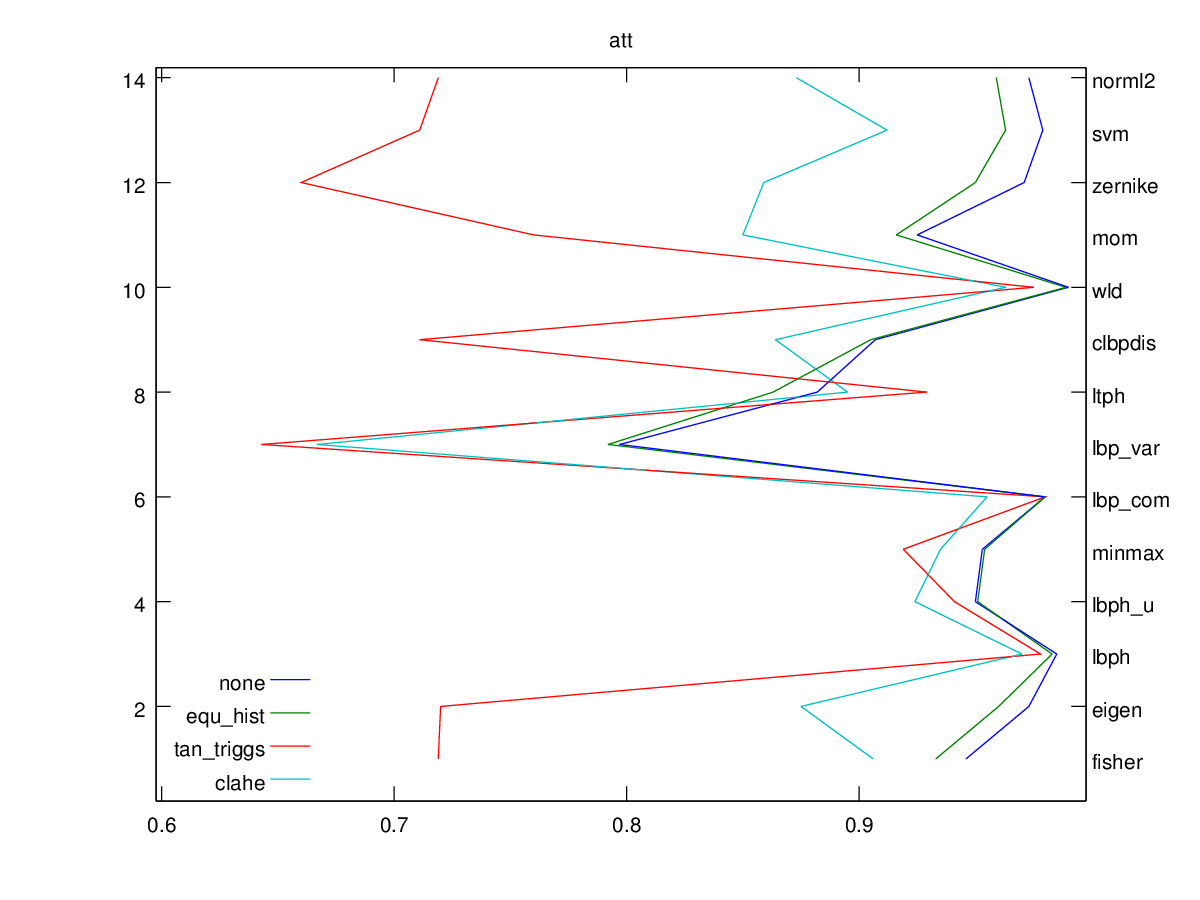
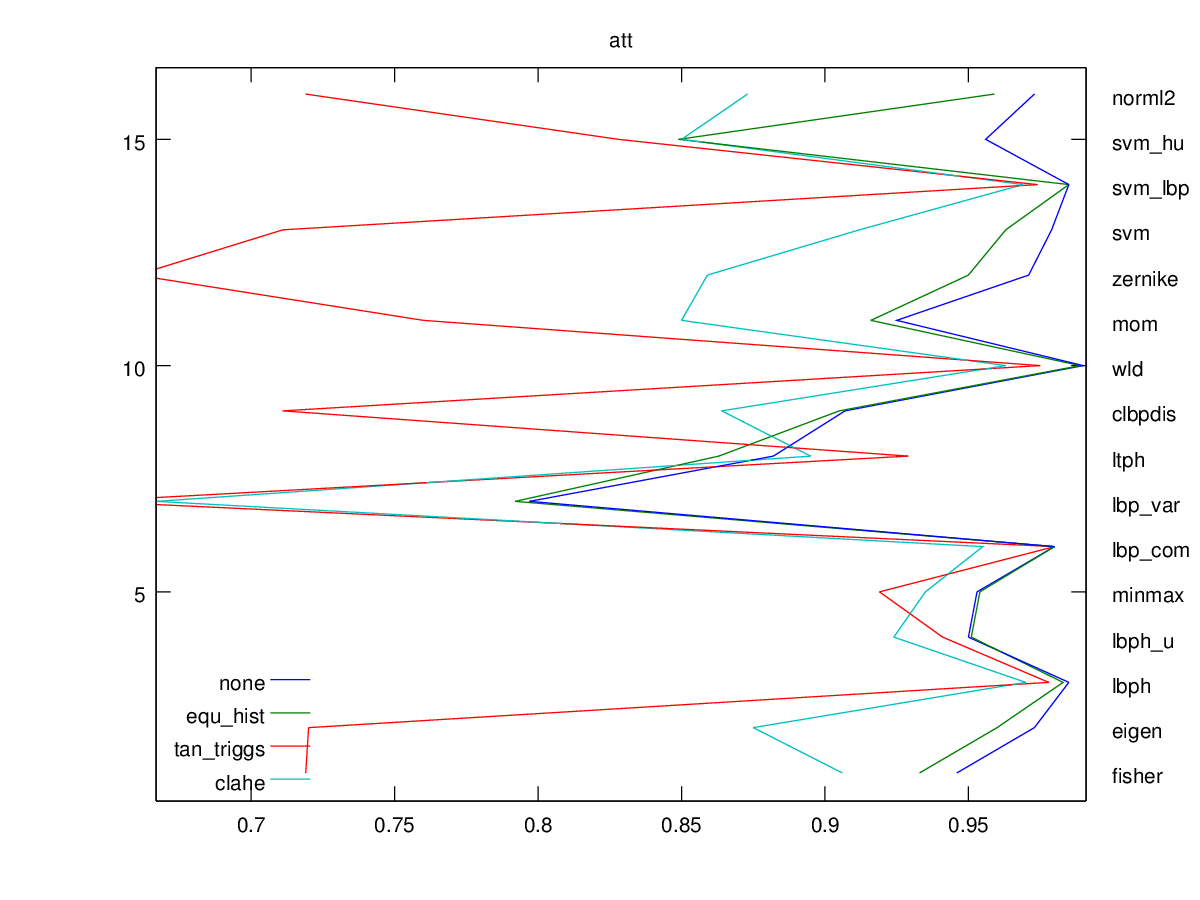
svm_lbp svm_hu

diff --git a/svm.cpp b/svm.cpp
@@ -12,8 +12,10 @@ struct Svm : public FaceRecognizer
 
 	CvSVM svm;
     CvSVMParams param;
+    int preprocessing; // 0 none(pixels), 1 lbph_u, 2 humoments
 
-    Svm(double degree = 0.5,double gamma = 0.8,double coef0 = 0,double C = 0.99, double nu = 0.2, double p = 0.5) 
+    Svm(int pre = 0, double degree = 0.5,double gamma = 0.8,double coef0 = 0,double C = 0.99, double nu = 0.2, double p = 0.5) 
+        : preprocessing(pre)
     {
 	    param.kernel_type = CvSVM :: POLY ; // CvSVM :: RBF , CvSVM :: LINEAR...
     	param.degree = degree; // for poly
@@ -29,75 +31,134 @@ struct Svm : public FaceRecognizer
         param.svm_type = CvSVM::NU_SVC;
     }
 
-    virtual void train(InputArray src, InputArray lbls)    
+private:
+
+    static uchar lbp(const Mat_<uchar> & img, int x, int y)
     {
-        vector<Mat> imgs;
-        src.getMatVector(imgs);
-        vector<int> labels = lbls.getMat();
-        //train_ga(imgs,labels,0.002f);
-        train_im(imgs,labels);
+        static int uniform[256] = {
+            0,1,2,3,4,58,5,6,7,58,58,58,8,58,9,10,11,58,58,58,58,58,58,58,12,58,58,58,13,58,
+            14,15,16,58,58,58,58,58,58,58,58,58,58,58,58,58,58,58,17,58,58,58,58,58,58,58,18,
+            58,58,58,19,58,20,21,22,58,58,58,58,58,58,58,58,58,58,58,58,58,58,58,58,58,58,58,
+            58,58,58,58,58,58,58,58,58,58,58,58,23,58,58,58,58,58,58,58,58,58,58,58,58,58,
+            58,58,24,58,58,58,58,58,58,58,25,58,58,58,26,58,27,28,29,30,58,31,58,58,58,32,58,
+            58,58,58,58,58,58,33,58,58,58,58,58,58,58,58,58,58,58,58,58,58,58,34,58,58,58,58,
+            58,58,58,58,58,58,58,58,58,58,58,58,58,58,58,58,58,58,58,58,58,58,58,58,58,58,
+            58,35,36,37,58,38,58,58,58,39,58,58,58,58,58,58,58,40,58,58,58,58,58,58,58,58,58,
+            58,58,58,58,58,58,41,42,43,58,44,58,58,58,45,58,58,58,58,58,58,58,46,47,48,58,49,
+            58,58,58,50,51,52,58,53,54,55,56,57
+        };
+        uchar v = 0;
+        uchar c = img(y,x);
+        v += (img(y-1,x  ) > c) << 0;
+        v += (img(y-1,x+1) > c) << 1;
+        v += (img(y  ,x+1) > c) << 2;
+        v += (img(y+1,x+1) > c) << 3;
+        v += (img(y+1,x  ) > c) << 4;
+        v += (img(y+1,x-1) > c) << 5;
+        v += (img(y  ,x-1) > c) << 6;
+        v += (img(y-1,x-1) > c) << 7;
+        return uniform[v];
     }
 
-    //static uchar lbp(const Mat_<uchar> & img, int x, int y)
-    //{
-    //    static int uniform[256] = {
-    //        0,1,2,3,4,58,5,6,7,58,58,58,8,58,9,10,11,58,58,58,58,58,58,58,12,58,58,58,13,58,
-    //        14,15,16,58,58,58,58,58,58,58,58,58,58,58,58,58,58,58,17,58,58,58,58,58,58,58,18,
-    //        58,58,58,19,58,20,21,22,58,58,58,58,58,58,58,58,58,58,58,58,58,58,58,58,58,58,58,
-    //        58,58,58,58,58,58,58,58,58,58,58,58,23,58,58,58,58,58,58,58,58,58,58,58,58,58,
-    //        58,58,24,58,58,58,58,58,58,58,25,58,58,58,26,58,27,28,29,30,58,31,58,58,58,32,58,
-    //        58,58,58,58,58,58,33,58,58,58,58,58,58,58,58,58,58,58,58,58,58,58,34,58,58,58,58,
-    //        58,58,58,58,58,58,58,58,58,58,58,58,58,58,58,58,58,58,58,58,58,58,58,58,58,58,
-    //        58,35,36,37,58,38,58,58,58,39,58,58,58,58,58,58,58,40,58,58,58,58,58,58,58,58,58,
-    //        58,58,58,58,58,58,41,42,43,58,44,58,58,58,45,58,58,58,58,58,58,58,46,47,48,58,49,
-    //        58,58,58,50,51,52,58,53,54,55,56,57
-    //    };
-    //    uchar v = 0;
-    //    uchar c = img(y,x);
-    //    v += (img(y-1,x  ) > c) << 0;
-    //    v += (img(y-1,x+1) > c) << 1;
-    //    v += (img(y  ,x+1) > c) << 2;
-    //    v += (img(y+1,x+1) > c) << 3;
-    //    v += (img(y+1,x  ) > c) << 4;
-    //    v += (img(y+1,x-1) > c) << 5;
-    //    v += (img(y  ,x-1) > c) << 6;
-    //    v += (img(y-1,x-1) > c) << 7;
-    //    return uniform[v];
-    //}
-
-    static Mat preproc(const Mat & z)
+    static void mom(const Mat & z, Mat & feature, int i, int j, int w, int h)
     {
-        //if ( 0 )
-        //{ 
-        //    Mat h = Mat::zeros(1,60*8*8,CV_32F);
-        //    int sw = z.cols/7;
-        //    int sh = z.rows/7;
-        //    for ( int r=1; r<z.rows-1; r++ )
-        //    {
-        //        for ( int c=1; c<z.cols-1; c++ )
-        //        {
-        //            uchar v = lbp(z,r,c);
-        //            int i = r/sh;
-        //            int j = r/sw;
-        //            h.at<float>( 60*(i*j) + v ) += 1;
-        //        }
-        //    }        
-        //    normalize(h,h);
-        //    return h;
-        //}
+        cv::Mat roi(z, cv::Rect(i*w,j*h,w,h));
+        Moments m = moments( roi, false);
+
+        //feature.push_back(m.m00);
+        //feature.push_back(m.m01);
+        //feature.push_back(m.m02);
+        //feature.push_back(m.m03);
+        //feature.push_back(m.m10);
+        //feature.push_back(m.m11);
+        //feature.push_back(m.m12);
+        //feature.push_back(m.m30);
+
+        //feature.push_back(m.mu02);
+        //feature.push_back(m.mu03);
+        //feature.push_back(m.mu11);
+        //feature.push_back(m.mu12);
+        //feature.push_back(m.mu20);
+        //feature.push_back(m.mu21);
+        //feature.push_back(m.mu30);
+
+        //feature.push_back(m.nu02);
+        //feature.push_back(m.nu03);
+        //feature.push_back(m.nu11);
+        //feature.push_back(m.nu12);
+        //feature.push_back(m.nu20);
+        //feature.push_back(m.nu21);
+        //feature.push_back(m.nu30);
+
+        double hu[7];
+        HuMoments(m,hu);
+        feature.push_back(hu[0]);
+        feature.push_back(hu[1]);
+        feature.push_back(hu[2]);
+        feature.push_back(hu[3]);
+        feature.push_back(hu[4]);
+        feature.push_back(hu[5]);
+        feature.push_back(hu[6]);
+    }
+    Mat preproc(const Mat & z) const
+    {
+        switch ( preprocessing )
+        { 
+        case 1:
+        {
+            Mat h  = Mat::zeros(1,60*8*8,CV_32F);
+            int sw = (z.cols)/7;
+            int sh = (z.rows)/7;
+            for ( int r=1; r<z.rows-1; r++ )
+            {
+                for ( int c=1; c<z.cols-1; c++ )
+                {
+                    int i = r/sh;
+                    int j = c/sw;
+                    uchar v = lbp(z,r,c);
+                    h.at<float>( 60*(i*8+j) + v ) += 1;
+                }
+            }        
+            normalize(h,h);
+            return h;
+        }
+
+        case 2:
+        {
+            Mat mo;
+            int sw = (z.cols)/8;
+            int sh = (z.rows)/8;
+            for ( int i=0; i<8; i++ )
+            {
+                for ( int j=0; j<8; j++ )
+                {
+                    mom(z,mo,i,j,sw,sh);
+                }
+            }        
+            mo.convertTo(mo,CV_32F);
+            normalize(mo,mo);
+            return mo;
+        }
+        }
         Mat m = z.reshape(1,1);
         m.convertTo(m,CV_32F,1.0/255);
         return m;
     }
 
-    void train_im(const vector<Mat>& images, const vector<int>& labels)    
+public:
+
+    virtual void train(InputArray src, InputArray lbls)    
     {
+        vector<Mat> images;
+        src.getMatVector(images);
+        vector<int> labels = lbls.getMat();
         Mat trainData;
         for ( size_t i=0; i<images.size(); i++ )
         {
             Mat m = preproc(images[i]);
             trainData.push_back(m);
         }
+        trainData = trainData.reshape(1,labels.size());
         svm.train( trainData , Mat(labels) , cv::Mat() , cv::Mat() , param );
     }
 
@@ -270,44 +331,12 @@ struct Svm : public FaceRecognizer
 //    }
 };
 
-Ptr<FaceRecognizer> createSvmFaceRecognizer()
+Ptr<FaceRecognizer> createSvmFaceRecognizer(int pre)
 {
-    return makePtr<Svm>();
+    return makePtr<Svm>(pre);
 }
 
-////
-////
-////string svm_str(const CvSVMParams & p)
-////{
-////    return cv::format("[%3.3f %3.3f %3.3f %3.3f %3.3f %3.3f]", p.degree, p.gamma, p.coef0, p.C, p.nu, p.p);
-////}
-////
-////void svm_xbreed(CvSVMParams & p, const CvSVMParams & q, double u=0.5)
-////{
-////    p.degree = p.degree * u + q.degree * (1.0-u);
-////    p.gamma  = p.gamma  * u + q.gamma  * (1.0-u);
-////    p.coef0  = p.coef0  * u + q.coef0  * (1.0-u);
-////    p.C  = p.C  * u + q.C  * (1.0-u);
-////    p.nu = p.nu * u + q.nu * (1.0-u);
-////    p.p  = p.p  * u + q.p  * (1.0-u);
-////}
-////
-////void clamp(double &z)
-////{
-////    if ( z > 1.0 ) z=1.0;
-////    if ( z < 0.0001 ) z=0.0001;
-////}
-////void svm_mutate( CvSVMParams & p,RNG & rng)
-////{
-////    double mutation = 2.0;
-////    if ( rng.uniform(0,6)>4) p.degree += rng.uniform(-mutation,mutation), clamp(p.degree);
-////    if ( rng.uniform(0,6)>4) p.gamma += rng.uniform(-mutation,mutation), clamp(p.gamma);
-////    if ( rng.uniform(0,6)>4) p.coef0 += rng.uniform(-mutation,mutation), clamp(p.coef0);
-////    if ( rng.uniform(0,6)>4) p.C += rng.uniform(-mutation,mutation), clamp(p.C);
-////    if ( rng.uniform(0,6)>4) p.nu += rng.uniform(-mutation,mutation), clamp(p.nu);
-////    if ( rng.uniform(0,6)>4) p.p += rng.uniform(-mutation,mutation), clamp(p.p);
-////}
-////
+//
 //#include <opencv2/core/utility.hpp>
 //void svm_ga(const vector<Mat>& images, const vector<int>& labels, float err)
 //{

diff --git a/main.cpp b/main.cpp
@@ -69,6 +69,8 @@ const char *rec_names[] = {
     "zernike",
     "ann",
     "svm",
+    "svm_lbp",
+    "svm_hu",
     "norml2"
 };
 
@@ -113,7 +115,9 @@ Ptr<FaceRecognizer> runtest( int rec, const vector<Mat>& images, const vector<in
         case 10: model = createMomFaceRecognizer(8,10); break;
         case 11: model = createZernikeFaceRecognizer(4,7); break;
         case 12: model = createAnnFaceRecognizer(); break;
-        case 13: model = createSvmFaceRecognizer(); break;
+        case 13: model = createSvmFaceRecognizer(0); break;
+        case 14: model = createSvmFaceRecognizer(1); break;
+        case 15: model = createSvmFaceRecognizer(2); break;
         default: model = createLinearFaceRecognizer(NORM_L2); break;
     }
     //

diff --git a/factory.h b/factory.h
@@ -14,6 +14,6 @@ extern cv::Ptr<cv::FaceRecognizer> createWLDFaceRecognizer(int gridx,int gridy,d
 extern cv::Ptr<cv::FaceRecognizer> createMomFaceRecognizer(int grid,int w);
 extern cv::Ptr<cv::FaceRecognizer> createZernikeFaceRecognizer(int grid, int nfeatures);
 extern cv::Ptr<cv::FaceRecognizer> createAnnFaceRecognizer();
-extern cv::Ptr<cv::FaceRecognizer> createSvmFaceRecognizer();
+extern cv::Ptr<cv::FaceRecognizer> createSvmFaceRecognizer(int preprocessing);
 
 #endif _lalalala_
